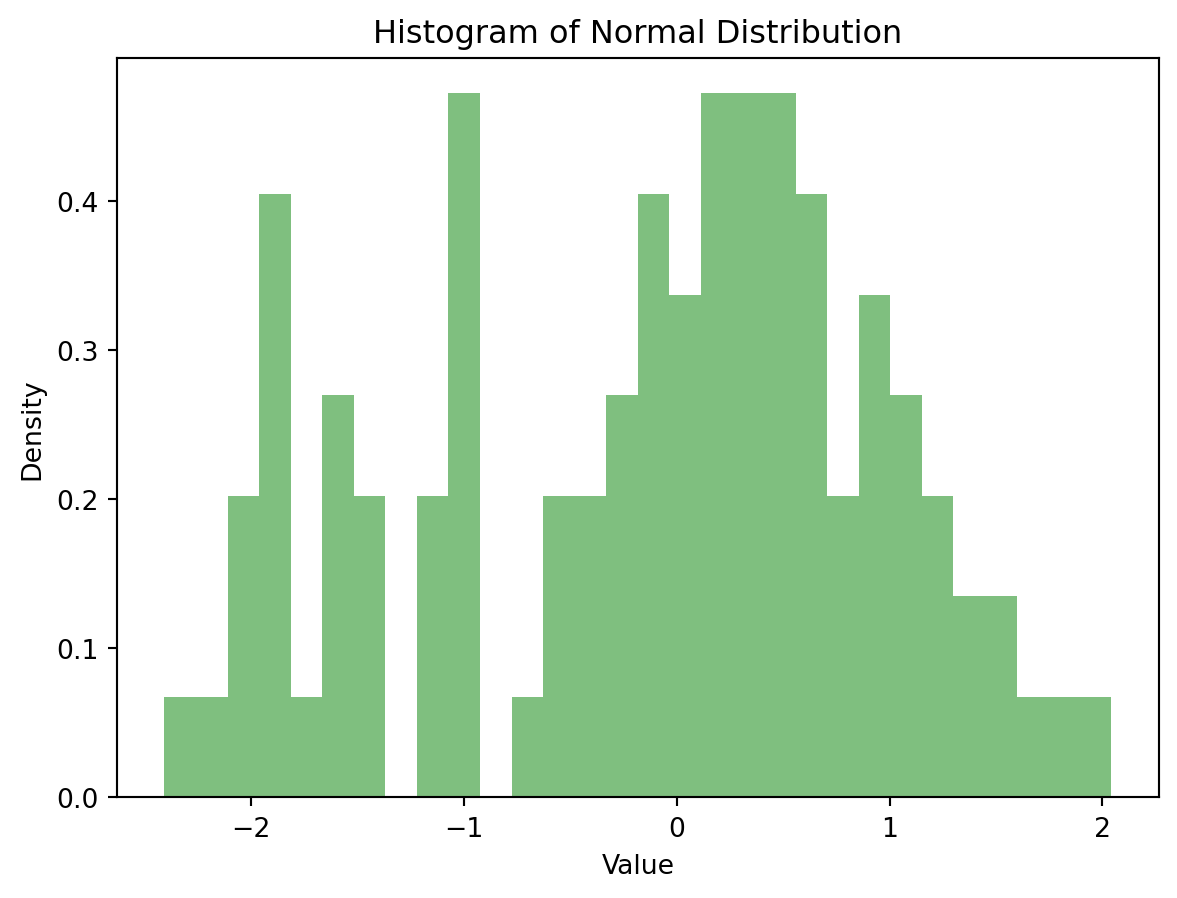
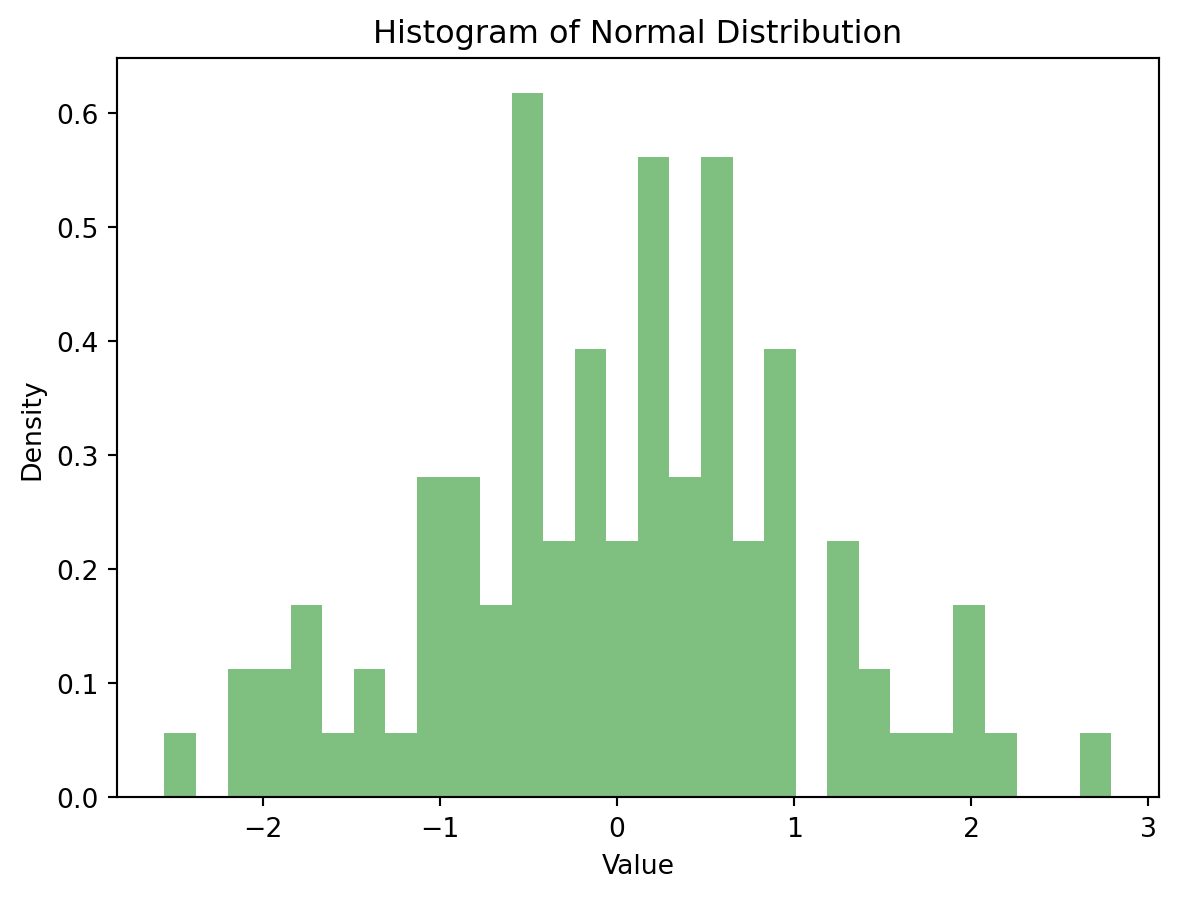
sorting projects

diff --git a/docs/projects.html b/docs/projects.html
@@ -203,7 +203,27 @@ window.Quarto = {
 <div class="quarto-listing quarto-listing-container-grid" id="listing-listing">
 <div class="list grid quarto-listing-cols-3">
 
-<div class="g-col-1" data-index="0" data-listing-file-modified-sort="1743876892009" data-listing-reading-time-sort="1" data-listing-word-count-sort="1">
+<div class="g-col-1" data-index="0" data-listing-file-modified-sort="1743877573659" data-listing-reading-time-sort="1" data-listing-word-count-sort="44">
+<a href="./projects/hw1/index.html" class="quarto-grid-link">
+<div class="quarto-grid-item card h-100 card-left">
+
+<p class="card-img-top"><img src="projects/hw1/index_files/figure-html/cell-2-output-2.png" style="height: 150px;"  class="thumbnail-image card-img"/></p>
+
+<div class="card-body post-contents">
+<h5 class="no-anchor card-title listing-title">Homework 1</h5>
+
+<div class="card-text listing-description delink">Prof says to make a chart.</div>
+
+<div class="card-attribution card-text-small start">
+<div class="listing-author">Melody Miu</div>
+
+</div>
+
+</div>
+
+</div></a></div>
+
+<div class="g-col-1" data-index="1" data-listing-file-modified-sort="1743876892009" data-listing-reading-time-sort="1" data-listing-word-count-sort="1">
 <a href="./projects/hw2/index.html" class="quarto-grid-link">
 <div class="quarto-grid-item card h-100 card-left">
 
@@ -223,47 +243,7 @@ window.Quarto = {
 
 </div></a></div>
 
-<div class="g-col-1" data-index="1" data-listing-file-modified-sort="1743876895248" data-listing-reading-time-sort="1" data-listing-word-count-sort="1">
-<a href="./projects/hw5/index.html" class="quarto-grid-link">
-<div class="quarto-grid-item card h-100 card-left">
-
-<div class="listing-item-img-placeholder card-img-top" style="height: 150px;">&nbsp;</div>
-
-<div class="card-body post-contents">
-<h5 class="no-anchor card-title listing-title">Homework 5</h5>
-
-<div class="card-text listing-description delink"></div>
-
-<div class="card-attribution card-text-small start">
-<div class="listing-author"></div>
-
-</div>
-
-</div>
-
-</div></a></div>
-
-<div class="g-col-1" data-index="2" data-listing-file-modified-sort="1743876894074" data-listing-reading-time-sort="1" data-listing-word-count-sort="1">
-<a href="./projects/hw4/index.html" class="quarto-grid-link">
-<div class="quarto-grid-item card h-100 card-left">
-
-<div class="listing-item-img-placeholder card-img-top" style="height: 150px;">&nbsp;</div>
-
-<div class="card-body post-contents">
-<h5 class="no-anchor card-title listing-title">Homework 4</h5>
-
-<div class="card-text listing-description delink"></div>
-
-<div class="card-attribution card-text-small start">
-<div class="listing-author"></div>
-
-</div>
-
-</div>
-
-</div></a></div>
-
-<div class="g-col-1" data-index="3" data-listing-file-modified-sort="1743876893022" data-listing-reading-time-sort="1" data-listing-word-count-sort="1">
+<div class="g-col-1" data-index="2" data-listing-file-modified-sort="1743876893022" data-listing-reading-time-sort="1" data-listing-word-count-sort="1">
 <a href="./projects/hw3/index.html" class="quarto-grid-link">
 <div class="quarto-grid-item card h-100 card-left">
 
@@ -283,19 +263,39 @@ window.Quarto = {
 
 </div></a></div>
 
-<div class="g-col-1" data-index="4" data-listing-file-modified-sort="1743877573659" data-listing-reading-time-sort="1" data-listing-word-count-sort="44">
-<a href="./projects/hw1/index.html" class="quarto-grid-link">
+<div class="g-col-1" data-index="3" data-listing-file-modified-sort="1743876894074" data-listing-reading-time-sort="1" data-listing-word-count-sort="1">
+<a href="./projects/hw4/index.html" class="quarto-grid-link">
 <div class="quarto-grid-item card h-100 card-left">
 
-<p class="card-img-top"><img src="projects/hw1/index_files/figure-html/cell-2-output-2.png" style="height: 150px;"  class="thumbnail-image card-img"/></p>
+<div class="listing-item-img-placeholder card-img-top" style="height: 150px;">&nbsp;</div>
 
 <div class="card-body post-contents">
-<h5 class="no-anchor card-title listing-title">Homework 1</h5>
+<h5 class="no-anchor card-title listing-title">Homework 4</h5>
 
-<div class="card-text listing-description delink">Prof says to make a chart.</div>
+<div class="card-text listing-description delink"></div>
 
 <div class="card-attribution card-text-small start">
-<div class="listing-author">Melody Miu</div>
+<div class="listing-author"></div>
+
+</div>
+
+</div>
+
+</div></a></div>
+
+<div class="g-col-1" data-index="4" data-listing-file-modified-sort="1743876895248" data-listing-reading-time-sort="1" data-listing-word-count-sort="1">
+<a href="./projects/hw5/index.html" class="quarto-grid-link">
+<div class="quarto-grid-item card h-100 card-left">
+
+<div class="listing-item-img-placeholder card-img-top" style="height: 150px;">&nbsp;</div>
+
+<div class="card-body post-contents">
+<h5 class="no-anchor card-title listing-title">Homework 5</h5>
+
+<div class="card-text listing-description delink"></div>
+
+<div class="card-attribution card-text-small start">
+<div class="listing-author"></div>
 
 </div>
 

diff --git a/docs/projects/hw1/index.html b/docs/projects/hw1/index.html
@@ -152,33 +152,25 @@ ul.task-list li input[type="checkbox"] {
 <section id="question-1" class="level1">
 <h1>Question 1</h1>
 <p>Prof says to make a chart.</p>
-<div id="18dec31e" class="cell" data-execution_count="1">
+<div id="55afbc17" class="cell" data-execution_count="1">
 <div class="cell-output cell-output-stdout">
-<pre><code>[-3.46288365e-01 -1.59014015e+00  1.51298046e+00  2.04212877e+00
- -1.88583752e+00  1.27105187e+00 -1.92207251e+00  5.68378658e-02
-  3.58608117e-01  3.72962950e-01  9.53965872e-01 -2.87738243e-01
- -1.13905189e+00  1.18739616e+00 -1.86452574e+00  4.06363708e-01
- -1.06052202e+00  6.24749112e-01 -1.95195397e+00  7.44270079e-01
- -1.53298331e-01 -9.25883177e-01  1.41498090e+00  1.10217716e+00
- -1.42115950e+00  9.72805732e-04  3.74434669e-01 -1.93188491e+00
- -3.67073894e-01  1.00562389e+00 -1.59289866e+00 -1.99470803e+00
- -8.93300976e-02  7.68770487e-01 -1.89673856e+00  6.45401822e-01
- -6.21891952e-01 -1.72152062e+00  5.45915345e-01 -2.05672746e+00
- -9.30648276e-01 -1.58158641e+00  1.08945111e+00  4.76505186e-01
-  5.60747804e-01 -4.27592410e-01  2.34537655e-01 -2.32747832e-01
-  1.67978834e+00  7.19771203e-02 -1.05725588e+00  8.41542765e-03
- -1.05712512e+00  4.88734696e-01  9.24170301e-01  1.80191045e+00
-  9.76641993e-01  2.05610670e-01 -2.17214546e+00  3.37060118e-01
-  2.61883146e-01  2.67485873e-02  6.23626328e-01 -1.38795241e+00
-  1.15648120e+00 -5.22800683e-01  4.75991244e-01 -1.54015453e-01
-  1.08136214e+00  1.45443775e+00  9.94930052e-01 -2.79124507e-01
-  4.18268224e-01  3.40397240e-01 -5.67614903e-01 -2.60654541e-01
-  6.51663419e-01  4.93594750e-01 -1.59726716e-01 -1.60586345e+00
-  9.29520506e-01  1.86210611e-01 -1.20222859e+00  4.99914062e-01
- -1.55026826e-01 -1.06751946e+00  1.87226714e-01  1.43390916e+00
-  2.13883990e-01 -2.40755300e+00 -1.97834143e+00 -1.37318480e+00
- -1.05018952e+00  8.52782181e-01 -6.55228412e-01 -1.77010213e-01
- -1.08983697e+00  3.09456344e-01  6.09600847e-01  2.16443245e-01]</code></pre>
+<pre><code>[-0.85524912  0.12106808  0.16035652  0.32258971  0.47064288 -0.71031984
+  1.98525972  0.82194053  1.52431396 -2.17855455  0.25465491 -1.80566067
+  2.15921268  1.2352162  -0.91417752  0.50137823  0.16936852  0.52052919
+  0.88721304 -1.45391356 -0.49090497 -0.8151684  -1.67955723 -0.16152749
+ -0.59523936 -1.06505502  0.48333612 -1.98629338  0.19416425 -0.56239979
+  0.74083743  0.27344312 -0.550149    0.44630524  0.95905496 -0.18679863
+ -0.90671857 -1.49834389 -0.58616671 -0.18191499 -0.41500203 -0.49116012
+  0.65031532 -1.0358905   0.75931658 -1.16533588  0.26328559 -0.48703901
+ -0.9365008  -2.55725     1.65304127  1.20318623 -1.0636627  -1.85634227
+ -0.10897612 -0.74851614  0.62309388  2.79019448  0.88490018 -0.97520911
+  0.33272068  0.09190127 -0.13038975  0.59900998  0.0137761   0.87409147
+ -0.1461368   0.97114347 -0.01370521  0.39897361  1.75340198  0.20488253
+  0.71835571  0.56809556 -0.73748372 -0.31748072 -1.48542177  0.88440515
+  1.29464526 -2.12548211 -0.47497303 -1.80790799  0.2569663  -0.52544792
+  0.93175461  0.51929908 -0.99856156 -0.28454893  1.95685117  0.59616029
+  1.29922182 -0.47853804  1.91091034  1.37221268 -0.26005252 -0.22100156
+ -0.03303316 -0.55314185  0.60170748  0.17626594]</code></pre>
 </div>
 <div class="cell-output cell-output-display">
 <div>
